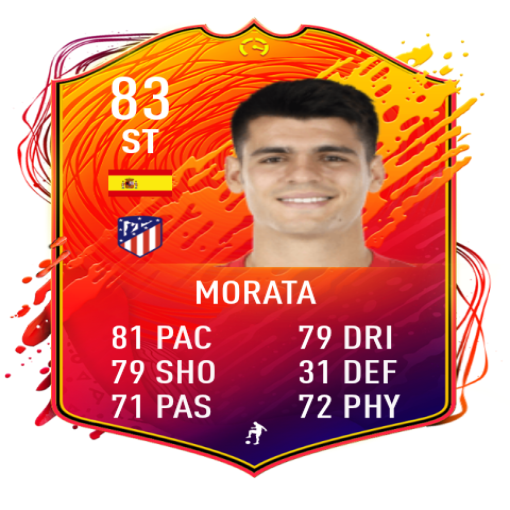
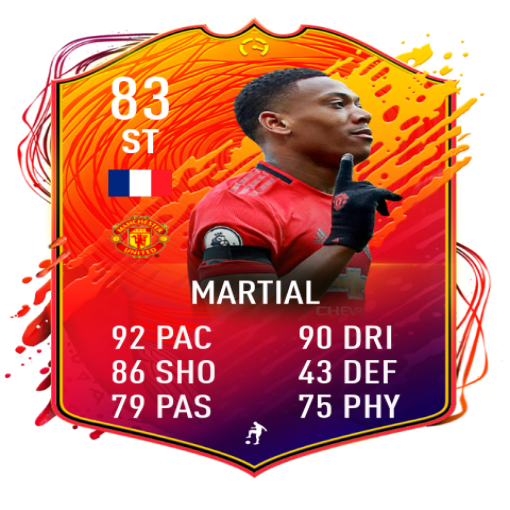
day 2 slot 4

Changed region(s): [[0.2059, 0.1176, 0.7941, 0.8235], [0.2059, 0.6176, 0.2941, 0.8235]]

diff --git a/GuardyourGoal2.html b/GuardyourGoal2.html
@@ -462,10 +462,10 @@
                                     </div>
                                    
 								</section>
-                                  <!----player 21
+                                  <!----player 21-->
 								<section>
 									<a  class="image">
-										<img src="slot1/11.png" alt="" data-position="center center" />
+										<img src="slot1/21.png" alt="" data-position="center center" />
 									</a>
 									<div class="content">
 										<div class="inner">
@@ -478,20 +478,20 @@
                              onload="if(submitted) {window.location='https://leoclubbitmesra.github.io/index.html;'}"></iframe> 
                                 
                                  
-								<form method="post" action="https://docs.google.com/forms/u/0/d/e/1FAIpQLSeo1zolKV5U5VFm8JRsGdLRXZZKnishRH9hEfBYE7NbNA7VSQ/formResponse"target="hidden_iframe" onsubmit="myFunction()" onreset="myFunction()">
+								<form method="post" action="https://docs.google.com/forms/u/0/d/e/1FAIpQLSeQoLho7qCSPDDIFLCoeB-nPP4ZvLeQcDRGI-rPg1nF88VR2Q/formResponse"target="hidden_iframe" onsubmit="myFunction()" onreset="myFunction()">
                                     
                  						<div class="fields">
                                         <div class="field half">
 											<label for="name">Your Team Id</label>
-											<input type="text" name="entry.908633319" id="team id" />
+											<input type="text" name="entry.1528945158" id="team id" />
 										</div>
 										<div class="field half">
 											<label for="name">Password</label>    
-											<input type="text" name="entry.2110011557" id="password" />
+											<input type="text" name="entry.1107559189" id="password" />
 										</div>
                                         <div class="field half">
 											<label for="name">Your Bid Amount</label>    
-											<input type="text" name="entry.598252445" id="price" />
+											<input type="text" name="entry.1957334900" id="price" />
 										</div>
                                     </div>
                                     <ul class="actions">
@@ -501,7 +501,7 @@
                                     </form >
 									</div>
                                     </div>
-								</section>-->
+								</section>
                         </section>
                         
                         
